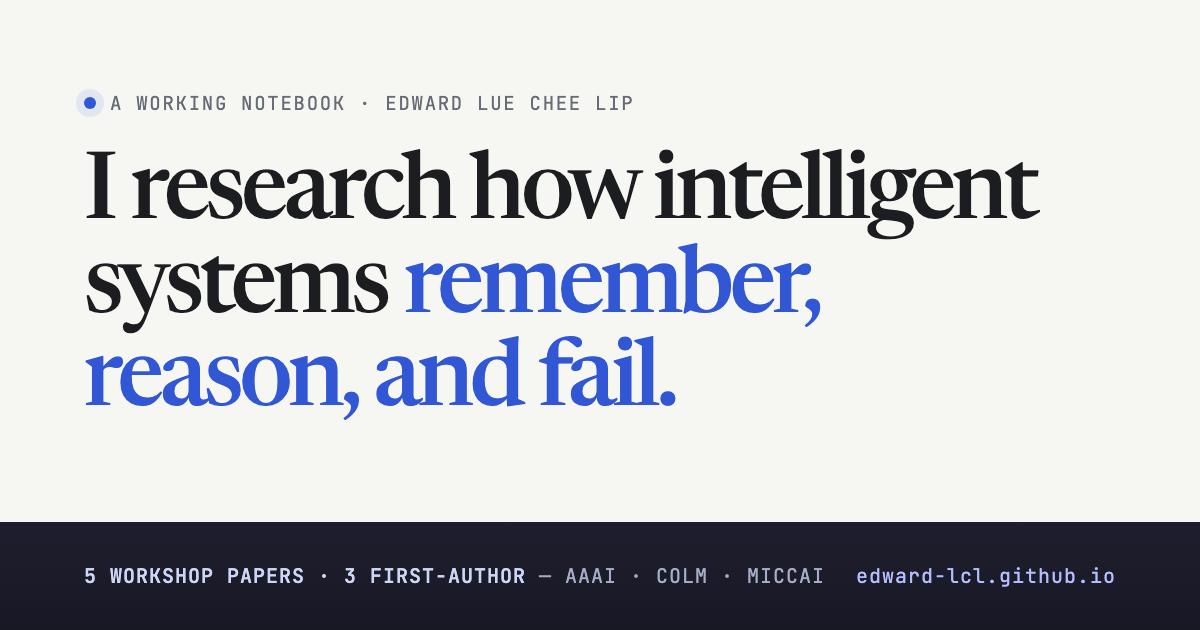
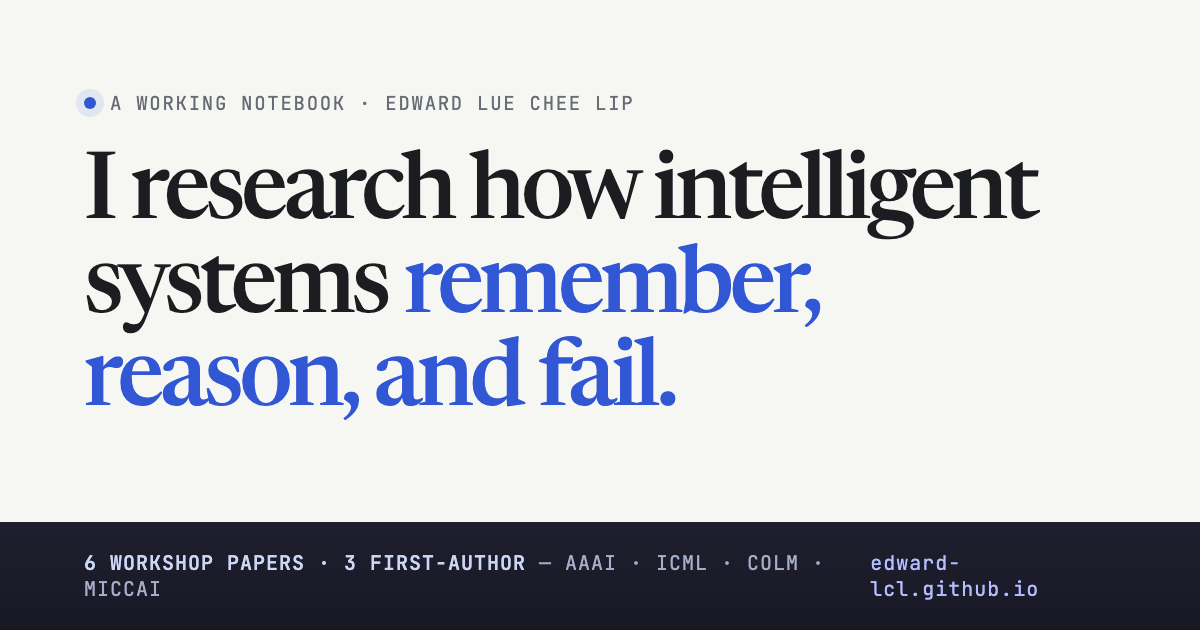
Reconcile the record: six accepted papers, enrolled-at-XJTLU wording
Adds the ICML 2026 Hidden-CoT workshop paper (co-author, accepted) as a
compact non-linking row and updates the credibility strip and og card to
"6 workshop papers · AAAI · ICML · COLM · MICCAI" — the accepted-work strip
should never undercount. Drops the sandbagging co-evolution entry from the
CV publications (not accepted); the experience bullet about carrying it to
submission stays, because that part is true regardless of outcome. XJTLU
wording is now exact on both language pages and the CV: enrolled, first
year beginning autumn 2026.

Changed region(s): [[0.0617, 0.8746, 0.5858, 0.9651], [0.7092, 0.8746, 0.925, 0.9651], [0.6167, 0.8746, 0.6783, 0.9349]]

diff --git a/src/data/site.ts b/src/data/site.ts
@@ -639,6 +639,20 @@ export const selectedSystems = [
   },
 ] as const;
 
+// Accepted work without a digest page yet: shown in the homepage rows and on the CV.
+export const additionalPapers = [
+  {
+    slug: "hidden-cot",
+    title: "Detecting Hidden Chain-of-Thought in Large Language Models",
+    subtitle: "With Linguistic, Behavioral, and Mechanistic Indicators",
+    venue: "ICML 2026 · Workshop",
+    note: "Accepted",
+    role: "Co-author",
+    authors: "Armaan Singh · Ryan Trinh Le · Jasmine Kaur · Edward Lue Chee Lip · Kiran Nijjer · Adnan Ahmed · Vasu Sharma",
+    url: null,
+  },
+];
+
 export const links = {
   github: "https://github.com/edward-lcl",
   linkedin: "https://linkedin.com/in/edward-lue-chee-lip",
